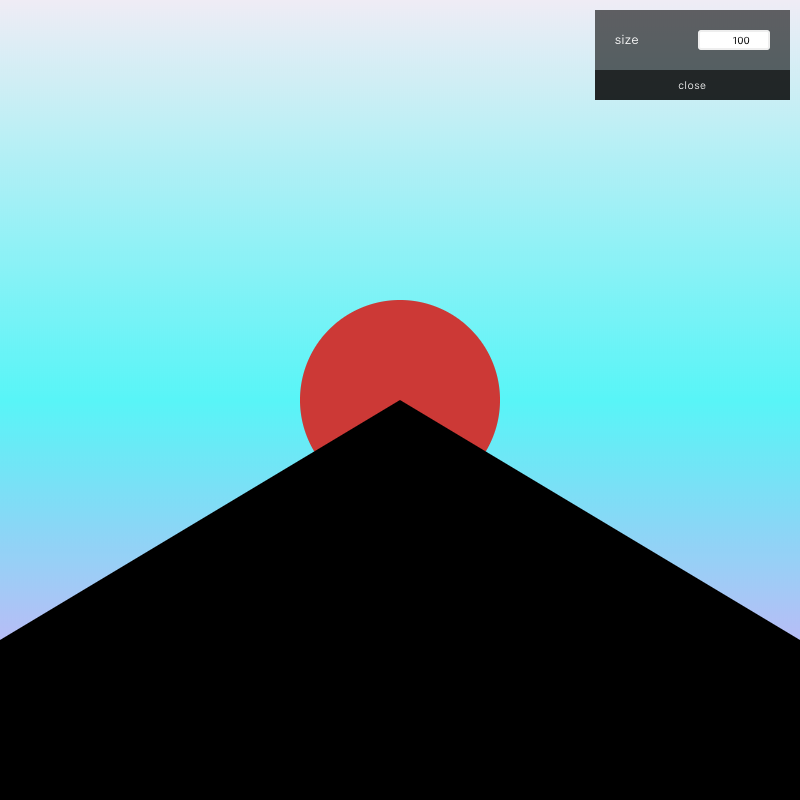
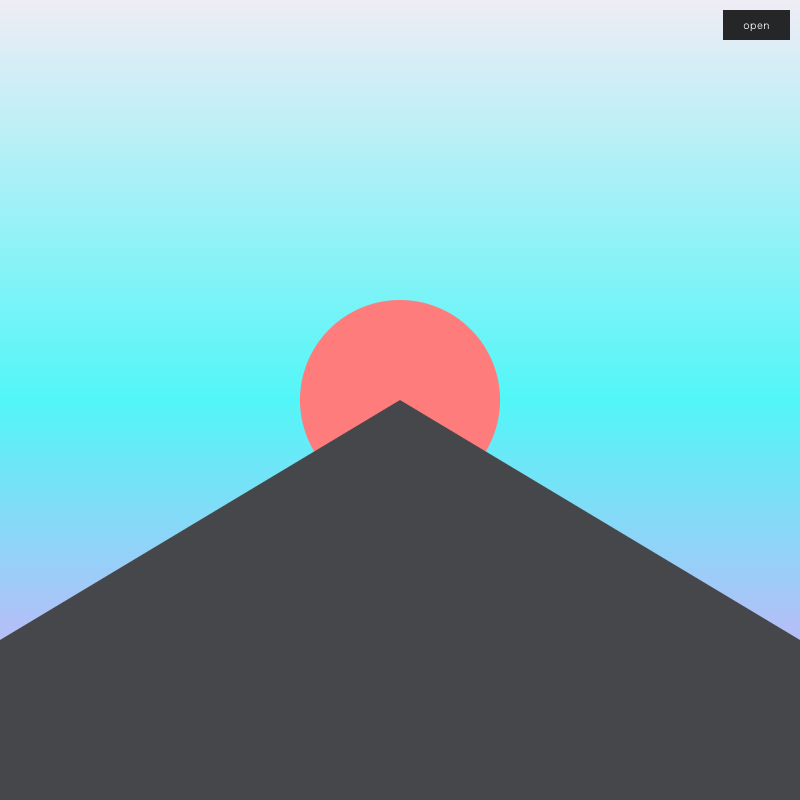
add vaporwave image, move data, rename spot

diff --git a/vaporwave-image/files/js/script.js b/vaporwave-image/files/js/script.js
@@ -1,0 +1,155 @@
+import { Setting } from '../../../common/files/js/setting.js';
+
+(function(window) {
+
+	'use strict';
+
+	let _dpr,_canvas,_context;
+	let _setting,_image,_filter;
+
+	document.addEventListener('DOMContentLoaded',initialize);
+
+	function initialize() {
+
+		_setting = new Setting({
+			alpha:{ value:.6,step:.05,max:1,min:0,'data-reload':false },
+			image_alpha:{ value:100,max:255,min:0 }
+		});
+
+		_dpr     = window.devicePixelRatio || 1;
+		_canvas  = document.getElementById('canvas');
+		_context = _canvas.getContext('2d');
+
+		_setting.setCallback(setup);
+
+		_image = new Image();
+		_image.onload = function() {
+
+			window.addEventListener('resize',onResize,false);
+
+			setCanvasSize();
+			setup();
+			window.requestAnimationFrame(render);
+
+		}
+		_image.src = './image.jpg';
+
+	}
+
+	function setCanvasSize() {
+
+		_canvas.width  = window.innerWidth;
+		_canvas.height = window.innerHeight;
+
+	}
+
+	function onResize() {
+
+		setCanvasSize();
+		setup();
+
+	}
+
+	function setup() {
+
+		_filter        = {};
+		let alpha      = _setting.get('alpha');
+		let imageAlpha = _setting.get('image_alpha');
+		let width  = _canvas.width;
+		let height = _canvas.height;
+		let imageW = _image.width;
+		let imageH = _image.height;
+		let x      = (width - imageW) * .5;
+		let y      = (height - imageH) * .5;
+
+		// if (imageW < width) imageW = width;
+		// if (imageH < height) imageH = height;
+
+		_context.globalCompositeOperation = 'source-over';
+		clear(width,height);
+		_context.drawImage(_image,x,y);
+		_context.globalAlpha = alpha;
+		_context.globalCompositeOperation = 'lighter';
+
+		_filter.canvas  = document.createElement('canvas');
+		_filter.context = _filter.canvas.getContext('2d');
+		_filter.canvas.width  = width;
+		_filter.canvas.height = height;
+		_filter.context.globalAlpha = 0.2;
+		_filter.red   = _filter.context.createImageData(width,height);
+		_filter.green = _filter.context.createImageData(width,height);
+		_filter.blue  = _filter.context.createImageData(width,height);
+
+		let colorData = _context.getImageData(0,0,width,height);
+		for (let i = 0; i < width * height * 4; i += 4) {
+
+			const red   = colorData.data[i];
+			const green = colorData.data[i + 1];
+			const blue  = colorData.data[i + 2];
+			const al    = colorData.data[i + 3];
+
+			_filter.red.data[i]     = red;
+			_filter.red.data[i + 1] = 0;
+			_filter.red.data[i + 2] = 0;
+			_filter.red.data[i + 3] = imageAlpha;
+
+			_filter.green.data[i]     = 0;
+			_filter.green.data[i + 1] = green;
+			_filter.green.data[i + 2] = 0;
+			_filter.green.data[i + 3] = imageAlpha;
+
+			_filter.blue.data[i]     = 0;
+			_filter.blue.data[i + 1] = 0;
+			_filter.blue.data[i + 2] = blue;
+			_filter.blue.data[i + 3] = imageAlpha;
+
+		}
+
+	}
+
+	function render(timestamp) {
+
+		let alpha  = _setting.get('alpha');
+		let width  = _canvas.width;
+		let height = _canvas.height;
+		let imageW = _image.width;
+		let imageH = _image.height;
+		let x      = (width - imageW) * .5;
+		let y      = (height - imageH) * .5;
+
+		clear(0,0,width,height);
+
+		_context.globalCompositeOperation = 'source-over';
+		_context.rect(0,0,width,height);
+		_context.fillStyle = '#fff';
+		_context.fill();
+
+		_context.drawImage(_image,x,y);
+		_context.globalAlpha = alpha;
+		_context.globalCompositeOperation = 'lighter';
+
+		_filter.context.putImageData(_filter.red,0,0);
+		_context.drawImage(_filter.canvas,Math.random() * 10,getRangeNumber(1,-1));
+
+		_filter.context.putImageData(_filter.blue,0,0);
+		_context.drawImage(_filter.canvas,Math.random() * -10,getRangeNumber(1,-1));
+
+		_context.scale(_dpr,_dpr);
+		window.requestAnimationFrame(render);
+
+	}
+
+	function clear(width,height) {
+
+		_context.clearRect(0,0,width,height);
+
+	}
+
+	function getRangeNumber(min, max) {
+
+		return Math.random() * (max - min) + min;
+
+	}
+
+
+})(window);

diff --git a/hinomaru/files/js/script.js b/hinomaru/files/js/script.js
@@ -58,19 +58,19 @@ import { Setting } from '../../../common/files/js/setting.js';
 		const centerY = height * .5;
 		const size    = _setting.get('size');
 
-		clear(width,height);
 		_context.globalCompositeOperation = 'source-over';
+		clear(width,height);
 
 		var gradient = _context.createLinearGradient(centerX, 0, centerX, height);
-		gradient.addColorStop(0, '#EFECF5');
-		gradient.addColorStop(.5, '#52F6F8');
-		gradient.addColorStop(1, '#FB97F8');
+		gradient.addColorStop(0,'#EFECF5');
+		gradient.addColorStop(.5,'#52F6F8');
+		gradient.addColorStop(1,'#FB97F8');
 		_context.fillStyle = gradient;
 		_context.fillRect(0, 0, width, height);
 
 		_context.beginPath();
 		_context.arc(centerX, centerY, size, 0, Math.PI*2, false);
-		_context.fillStyle = '#cd342f';
+		_context.fillStyle = '#fe7d7c';
 		_context.fill();
 
 		_context.beginPath();
@@ -79,7 +79,7 @@ import { Setting } from '../../../common/files/js/setting.js';
 		_context.lineTo(centerX,centerY);
 		_context.lineTo(width,height*.8);
 		_context.lineTo(width,height);
-		_context.fillStyle = '#000';
+		_context.fillStyle = '#46474a';
 		_context.fill();
 
 		window.requestAnimationFrame(render);

diff --git a/spot/index.html b/spot/index.html
@@ -1,0 +1,23 @@
+<!doctype html>
+<html>
+<head>
+<meta charset="UTF-8">
+<meta name="viewport" content="width=device-width">
+<meta http-equiv="Pragma" content="no-cache">
+<meta http-equiv="Cache-Control" content="no-cache">
+
+<meta property="og:url" content="https://okawa-h.github.io/playroom-canvas/spot/">
+<meta property="og:title" content="helloworld">
+<meta property="og:image" content="./thumnail.png">
+<meta property="og:description" content="helloworld">
+
+<title>helloworld</title>
+<link href="../common/files/css/style.css" rel="stylesheet">
+</head>
+<body>
+<div id="all">
+	<canvas id="canvas"></canvas>
+</div>
+<script type="module" src="files/js/script.js"></script>
+</body>
+</html>

diff --git a/vaporwave-image/index.html b/vaporwave-image/index.html
@@ -6,7 +6,7 @@
 <meta http-equiv="Pragma" content="no-cache">
 <meta http-equiv="Cache-Control" content="no-cache">
 
-<meta property="og:url" content="https://okawa-h.github.io/playroom-canvas/spot-circle/">
+<meta property="og:url" content="https://okawa-h.github.io/playroom-canvas/vaporwave-image/">
 <meta property="og:title" content="helloworld">
 <meta property="og:image" content="./thumnail.png">
 <meta property="og:description" content="helloworld">

diff --git a/bloom-image/files/js/script.js b/bloom-image/files/js/script.js
@@ -65,7 +65,6 @@ import { Setting } from '../../../common/files/js/setting.js';
 		filter.height = imageH / scale;
 		filter.getContext('2d').drawImage(_image, 0, 0, filter.width, filter.height);
 
-
 		_context.globalCompositeOperation = 'source-over';
 		clear(width,height);
 		_context.drawImage(_image, x, y);

diff --git a/common/files/css/style.css b/common/files/css/style.css
@@ -14,6 +14,8 @@ canvas {
 }
 
 #page-navi {
+    display: flex;
+    flex-wrap: wrap;
     margin-top: -30px;
     margin-left: -30px;
     padding: 30px;
@@ -24,7 +26,6 @@ canvas {
 }
 
     #page-navi li {
-        float: left;
         max-width: 180px;
         margin-top: 30px;
         margin-left: 30px;

diff --git a/common/files/js/data.js b/common/files/js/data.js
@@ -7,7 +7,10 @@ const DATA = {
             "name":"bloom-image"
         },
         {
-            "name":"spot-circle"
+            "name":"vaporwave-image"
+        },
+        {
+            "name":"spot"
         },
         {
             "name":"neon-text"

diff --git a/index.html b/index.html
@@ -10,7 +10,7 @@
 </head>
 <body>
 <div id="all"></div>
-<script src="data.js"></script>
+<script src="common/files/js/data.js"></script>
 <script>
 
 	let html = '<ul id="page-navi">';
